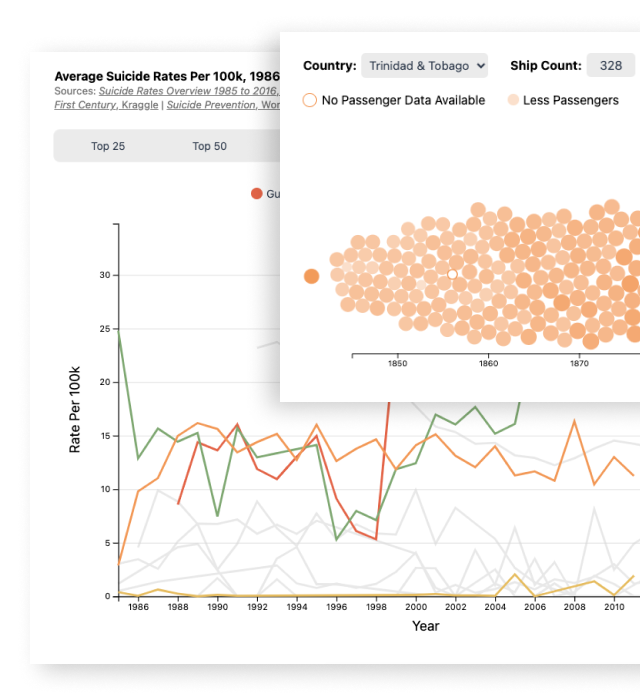
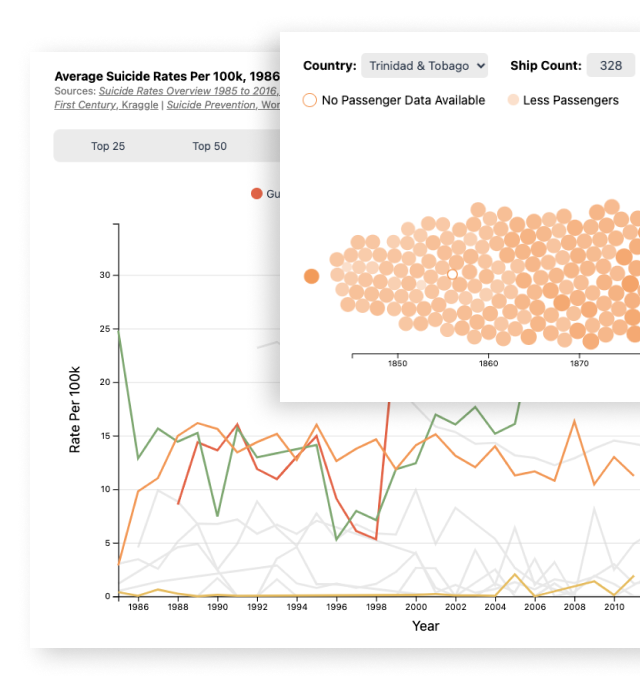
clean up + general tweaks + start of prh wip

Changed region(s): [[0.0938, 0.9, 1.0, 0.96]]

diff --git a/src/pages/PrhProjects.jsx b/src/pages/PrhProjects.jsx
@@ -1,0 +1,142 @@
+import { useRef } from "react";
+
+import Header from "../components/Header";
+import Hero from "../components/Hero";
+import TextGroup from "../components/TextGroup";
+import TextImage from "../components/TextImage";
+import FadeSection from "../components/FadeSection";
+
+import useScrollDirection from "../hooks/useScrollDirection";
+import useInView from "../hooks/useInView";
+import projectList from "../resources/projectList.json";
+
+const EmailHelper = () => {
+    const projectData = projectList.find(
+        (project) => project.title === "Division Platform + Splash"
+    );
+
+    const scrollDir = useScrollDirection();
+    const heroRef = useRef(null);
+    const isHeroInView = useInView(heroRef, { threshold: 0.02 });
+
+    return (
+        <>
+            <Header useLightLogo={isHeroInView} />
+            <main className="mb-[50px] min-h-dvh ">
+                <section ref={heroRef} className="h-dvh">
+                    <Hero
+                        project={projectData}
+                        image="emailhelper/emailHelperLight.png"
+                    />
+                </section>
+
+                <div className="flex flex-col gap-[25px] md:gap-[50px] lg:gap-[100px] px-[5%] mt-[100px]">
+                    <FadeSection scrollDir={scrollDir}>
+                        <section className="py-[50px] w-full max-w-screen-lg mx-auto flex flex-col gap-2">
+                            <TextImage
+                                heading="impact"
+                                image="emailhelper/timeChart.png"
+                                addImageShadow={false}
+                                mat={false}
+                                imagePlacement="right"
+                            >
+                                <p>
+                                    Use of Email Helper resulted in a{" "}
+                                    <strong className="highlight">
+                                        66.6% decrease in time on task.
+                                    </strong>{" "}
+                                    Staff saved a significant amount of time by
+                                    avoiding a lengthy Google doc of templates
+                                    and having to format on the fly.
+                                </p>
+                            </TextImage>
+                        </section>
+                    </FadeSection>
+
+                    <FadeSection scrollDir={scrollDir}>
+                        <section className="py-[50px] w-full max-w-screen-lg mx-auto flex flex-col gap-5 ">
+                            <TextImage
+                                heading="division platform"
+                                // subheading="How can we handle both formatting and email draft creation?"
+                                imageAlt="TODO: add alt"
+                                image="prhProjects/divisionPlatformOverview.png"
+                                addImageShadow={false}
+                                imagePlacement="bottom"
+                                // mat={false}
+                            >
+                                <p>
+                                    Staff frequently used additional styling in
+                                    their emails to emphasize and distinguish
+                                    important information, so{" "}
+                                    <strong className="highlight">
+                                        we knew from the start that
+                                        incorporating a rich text editor would
+                                        be necessary.
+                                    </strong>
+                                </p>
+                                <p>
+                                    <strong className="highlight">
+                                        We also knew that we’d be unable to send
+                                        emails directly from the Email Helper
+                                        extension
+                                    </strong>{" "}
+                                    — this is not permitted by TCP/IP
+                                    restrictions. A mailto link used to create
+                                    an email draft would allow us to get as
+                                    close to this functionality as possible …
+                                    but it wouldn’t support intricate
+                                    formatting.
+                                </p>
+                            </TextImage>
+                        </section>
+                    </FadeSection>
+
+                    <FadeSection scrollDir={scrollDir}>
+                        <section className=" pt-[50px] w-full max-w-screen-lg mx-auto">
+                            <TextImage
+                                heading="splash"
+                                imageAlt="TODO: add alt"
+                                image="prhProjects/gwpPublic.png"
+                                addImageShadow={false}
+                                imagePlacement="bottom"
+                            >
+                                <p>
+                                    <strong className="highlight">
+                                        Version 1
+                                    </strong>{" "}
+                                    of the email generation process required
+                                    users to search through the combined
+                                    templates to manually edit placeholder
+                                    values.
+                                </p>
+                            </TextImage>
+                        </section>
+                    </FadeSection>
+                    <FadeSection scrollDir={scrollDir}>
+                        <section className="pb-[50px] w-full max-w-screen-lg mx-auto ">
+                            <TextImage
+                                imageAlt="TODO: add alt"
+                                image="prhProjects/gwpAdmin.png"
+                                addImageShadow={false}
+                                imagePlacement="bottom"
+                            >
+                                <p>
+                                    <strong className="highlight">
+                                        Version 2
+                                    </strong>{" "}
+                                    explored collecting user input as its own
+                                    distinct step. These values were used to
+                                    complete the email previewed in a new
+                                    window, but this split view contained too
+                                    much repetition.
+                                </p>
+                            </TextImage>
+                        </section>
+                    </FadeSection>
+                </div>
+            </main>
+        </>
+    );
+};
+
+export default EmailHelper;

diff --git a/src/pages/EmailHelper.jsx b/src/pages/EmailHelper.jsx
@@ -307,9 +307,8 @@ const EmailHelper = () => {
 
                     <FadeSection scrollDir={scrollDir}>
                         <section className="py-[50px] w-full max-w-screen-lg mx-auto flex flex-col gap-5 ">
-                            <TextGroup heading="key decisions & iteration"></TextGroup>
-
                             <TextImage
+                                heading="key decisions & iteration"
                                 subheading="How can we handle both formatting and email draft creation?"
                                 imageAlt="TODO: add alt"
                                 image="emailhelper/formatting.png"
@@ -351,7 +350,7 @@ const EmailHelper = () => {
                     </FadeSection>
 
                     <FadeSection scrollDir={scrollDir}>
-                        <section className="w-full max-w-screen-lg mx-auto">
+                        <section className="pt-[50px] w-full max-w-screen-lg mx-auto">
                             <TextImage
                                 subheading="What method of previewing an email & completing its inputs is most intuitive?"
                                 imageAlt="TODO: add alt"
@@ -393,7 +392,7 @@ const EmailHelper = () => {
                         </section>
                     </FadeSection>
                     <FadeSection scrollDir={scrollDir}>
-                        <section className="w-full max-w-screen-lg mx-auto ">
+                        <section className="pb-[50px] w-full max-w-screen-lg mx-auto ">
                             <TextImage
                                 imageAlt="TODO: add alt"
                                 image="emailhelper/layoutV3.png"

diff --git a/src/components/Header.jsx b/src/components/Header.jsx
@@ -24,7 +24,11 @@ const Header = ({ useLightLogo }) => {
                     >
                         <Link to="/">
                             <img
-                                className="flex w-15 bg-white border-1 border-solid rounded-full aspect-square"
+                                className={`flex w-15 bg-white ${
+                                    useLightLogo
+                                        ? "border-white"
+                                        : "border-black"
+                                } border-1 border-solid rounded-full aspect-square`}
                                 src={homeIcon}
                             />
                         </Link>

diff --git a/src/App.jsx b/src/App.jsx
@@ -11,6 +11,7 @@ import Splash from "./pages/Splash.jsx";
 import DivisionPlatform from "./pages/DivisionPlatform.jsx";
 import GiantEagle from "../src/pages/GiantEagle.jsx";
 import EmailHelper from "../src/pages/EmailHelper.jsx";
+import PrhProjects from "../src/pages/PrhProjects.jsx";
 
 import routes from "../src/resources/routes.json";
 
@@ -26,6 +27,7 @@ const componentMap = {
     DivisionPlatform,
     GiantEagle,
     EmailHelper,
+    PrhProjects,
 };
 
 function App() {
